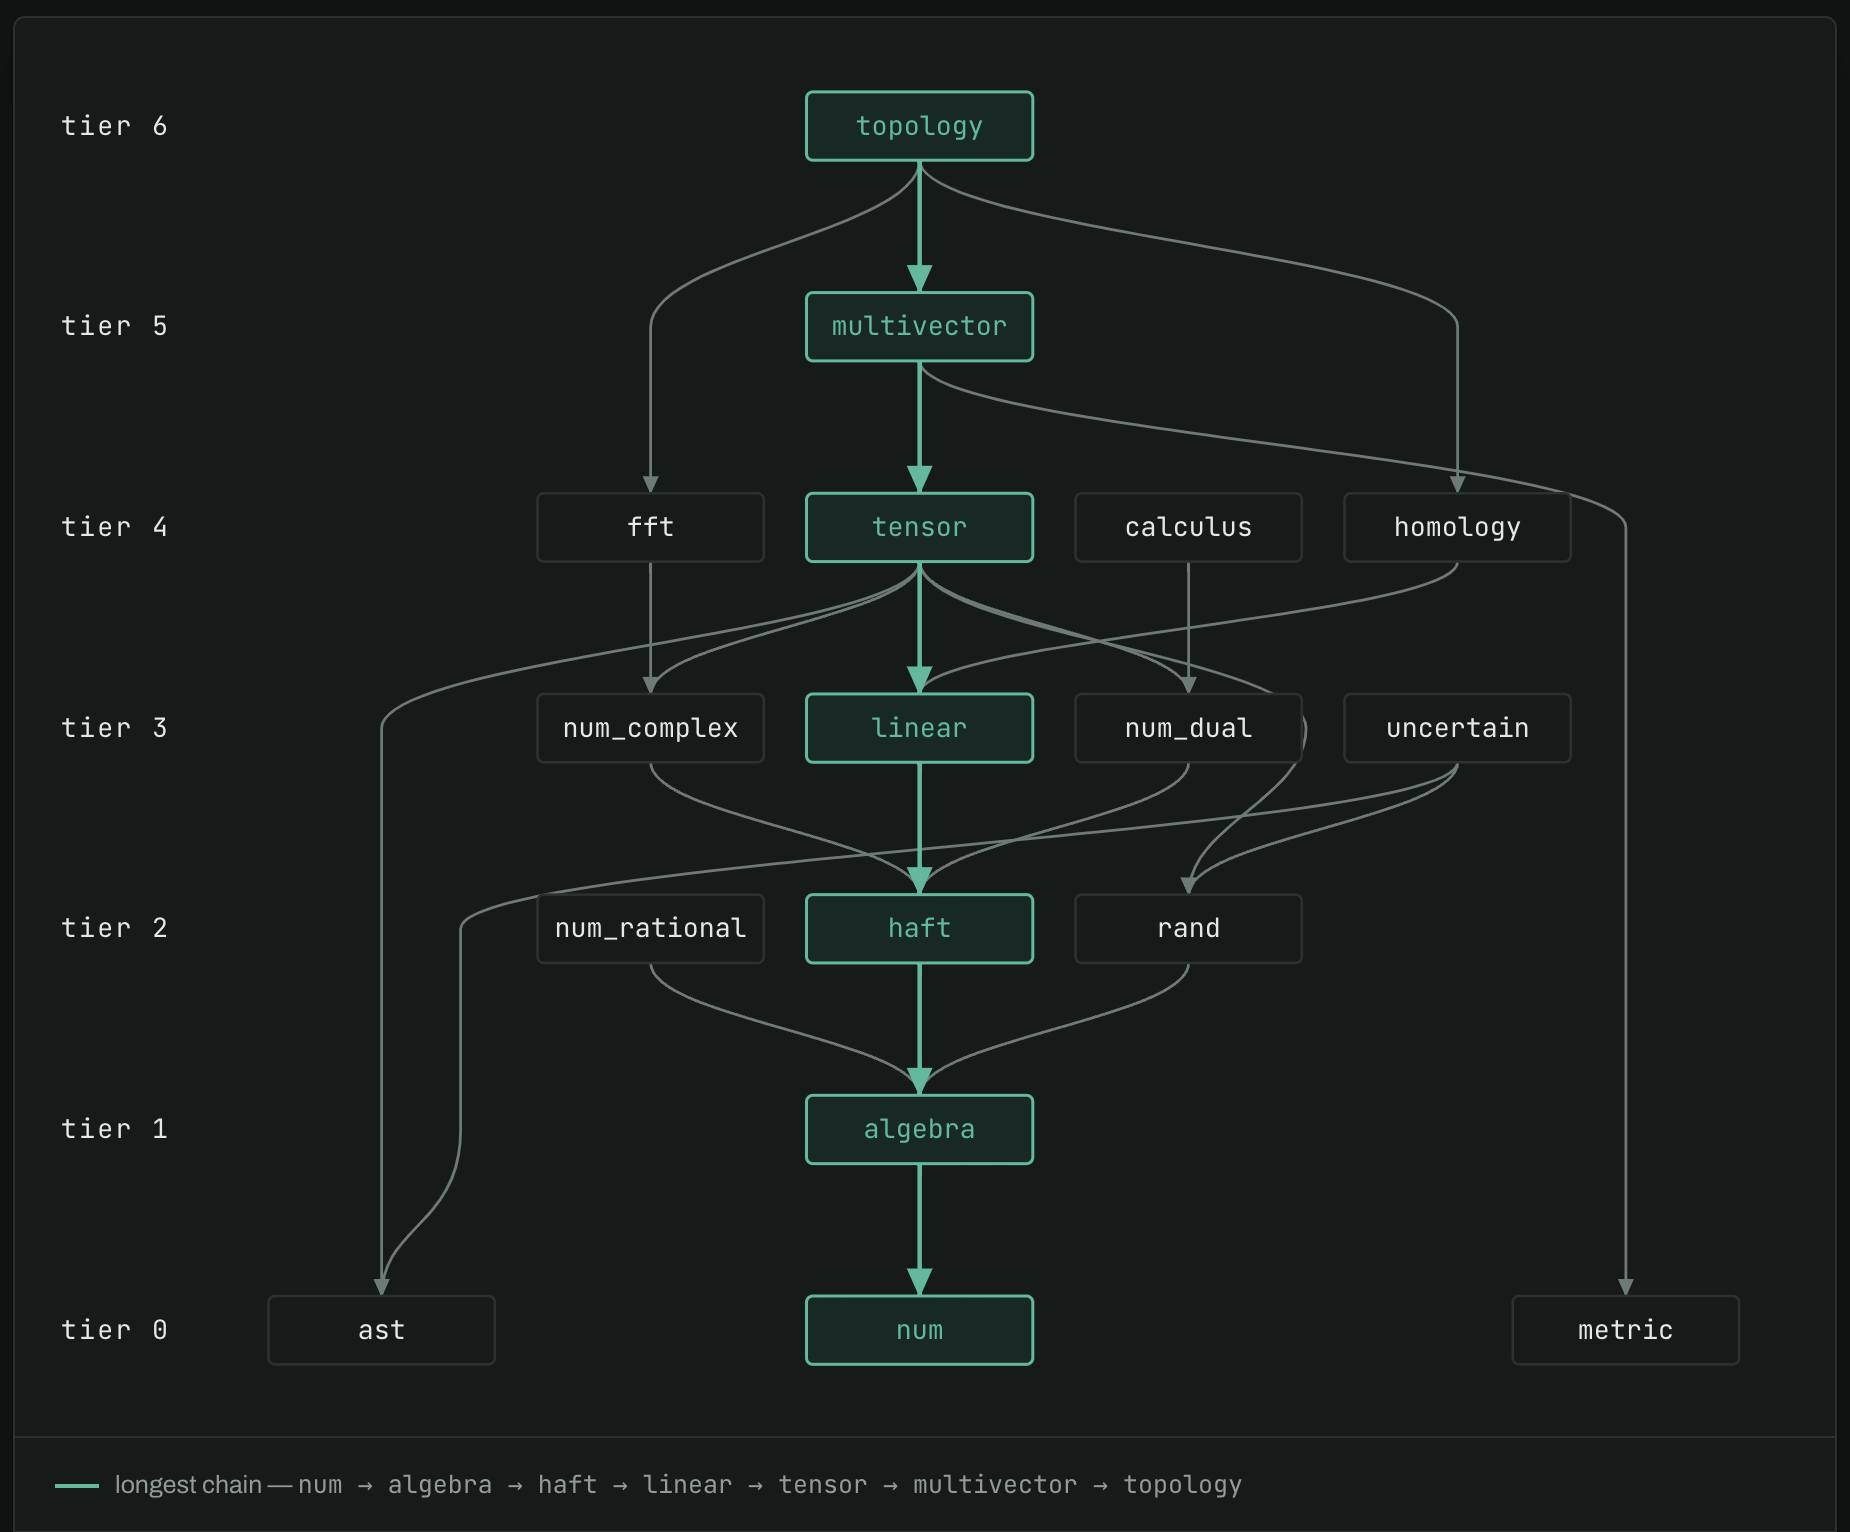
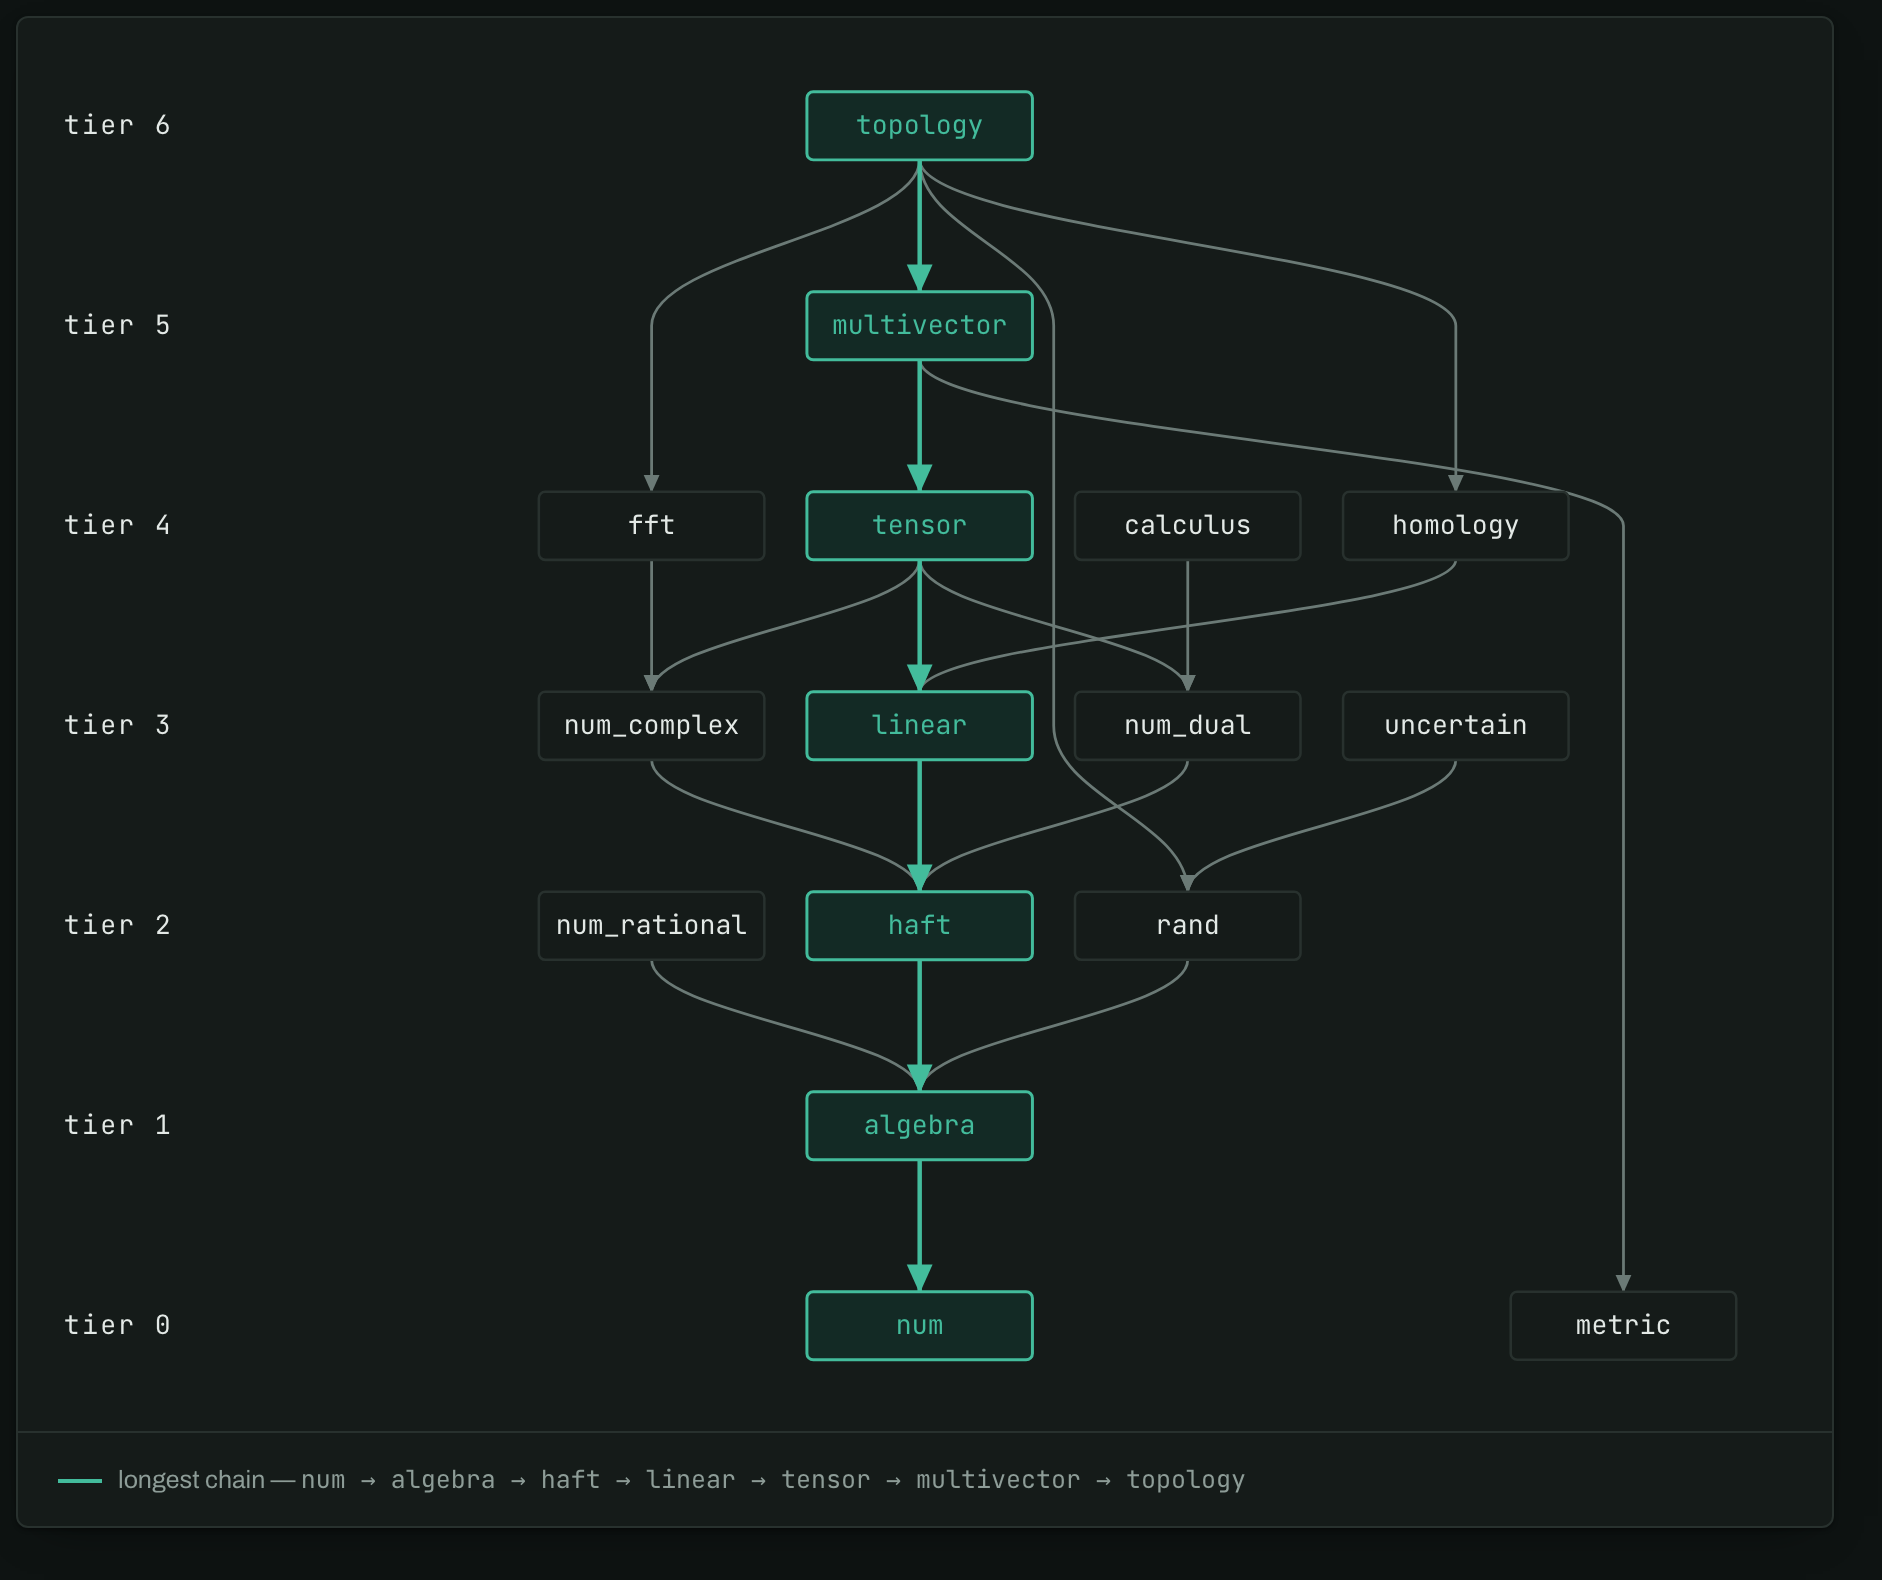
docs(deep_causality_unified_math): drop ast from the stack and refresh the graph
deep_causality_ast lives in deep_causality_utils and was never a member of
the mathematics set; the README now counts sixteen crates with two roots
and notes the two edges that leave the folder for it. The dependency graph
is regenerated without the ast node and its two edges, and the README's
new sections on precision as a parameter, composition, mixed precision and
economic impact ride along in the same file.

diff --git a/deep_causality_unified_math/README.md b/deep_causality_unified_math/README.md
@@ -40,7 +40,7 @@ Every one of the thirteen crates above tier 1 reaches `algebra`,
 so a change to the tower recompiles the whole stack. `num` and `algebra` are also the two
 crates that can never adopt `haft`, because `haft` depends on both.
 
-## The sixteen
+## The math crates
 
 | Crate | Tier | What it holds |
 |---|---|---|
